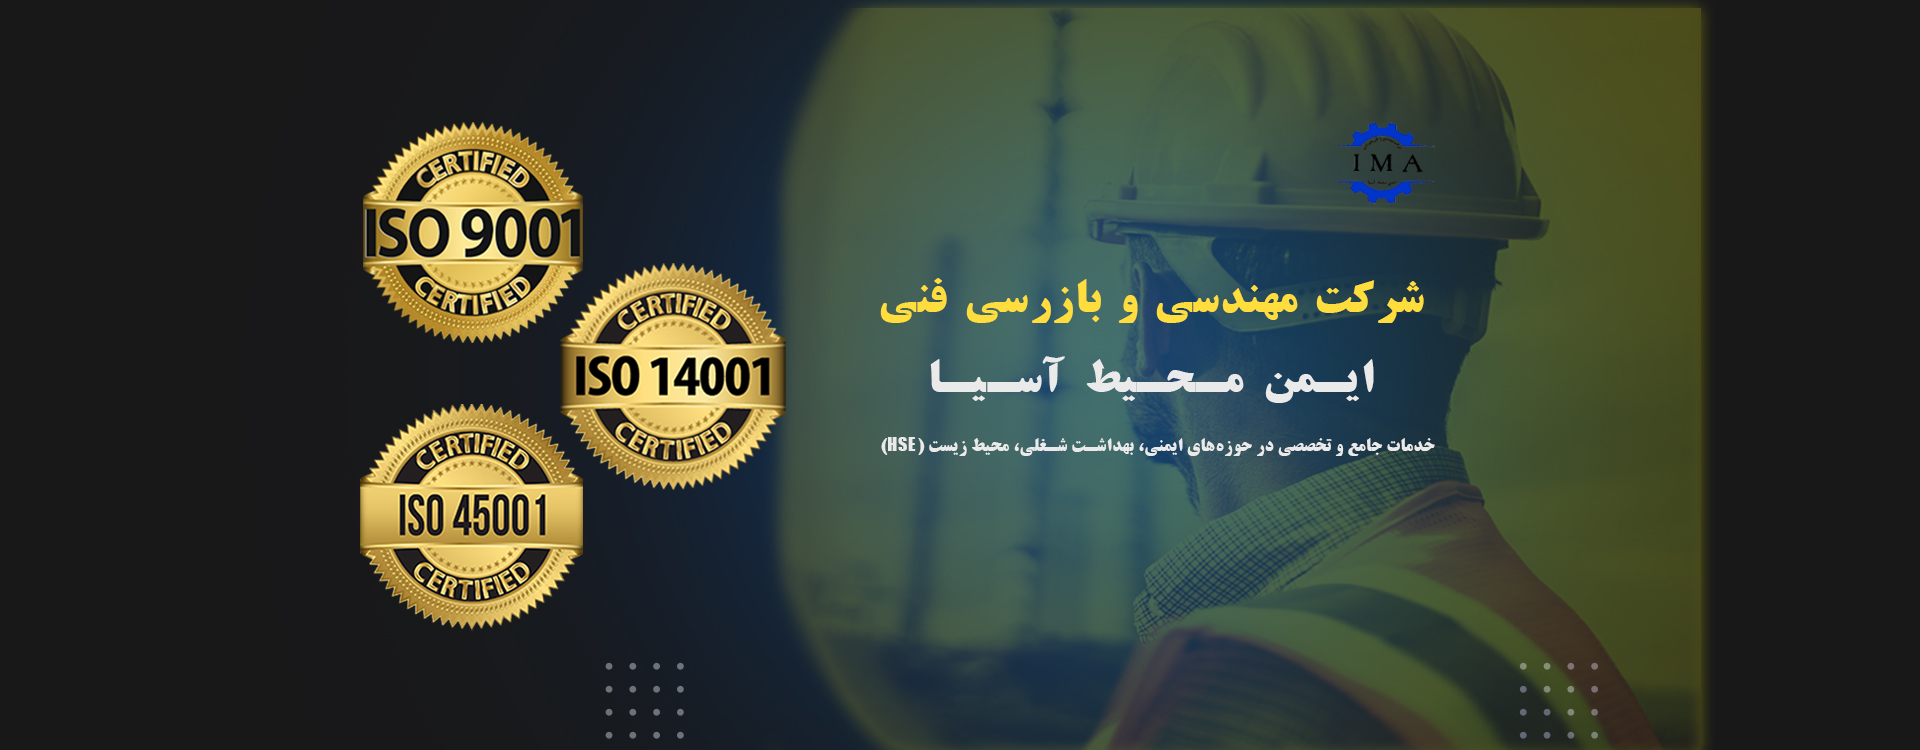
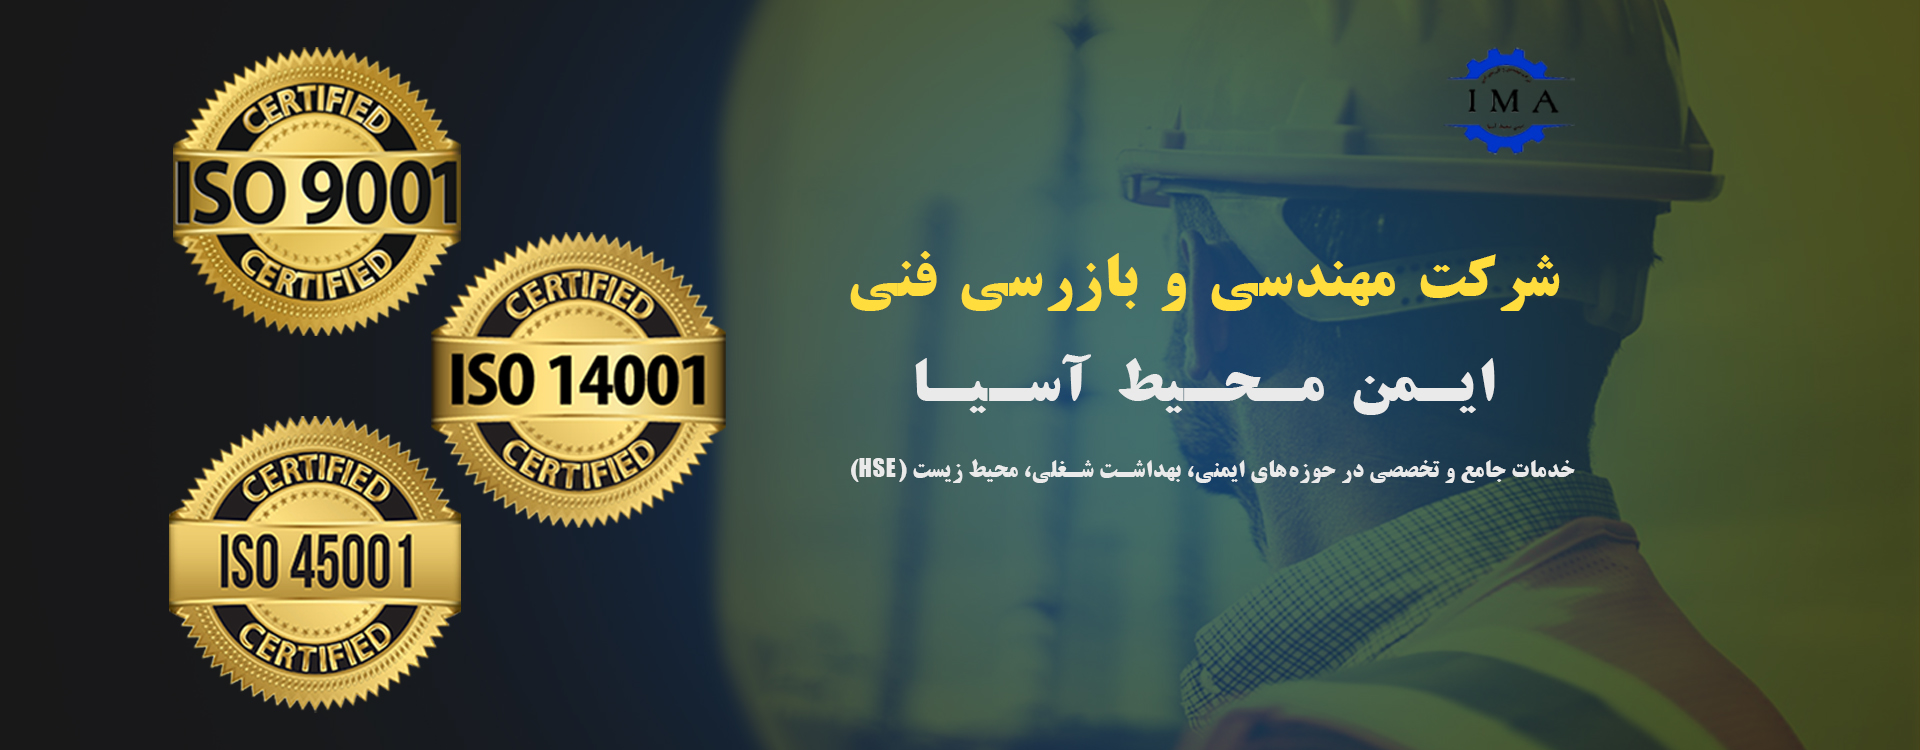
query7

diff --git a/assets/css/main.css b/assets/css/main.css
@@ -683,6 +683,8 @@ section,
   position: relative;
   padding: 0;
   overflow: hidden;
+  margin-top: 90px;
+  
 }
 
 .swiper {
